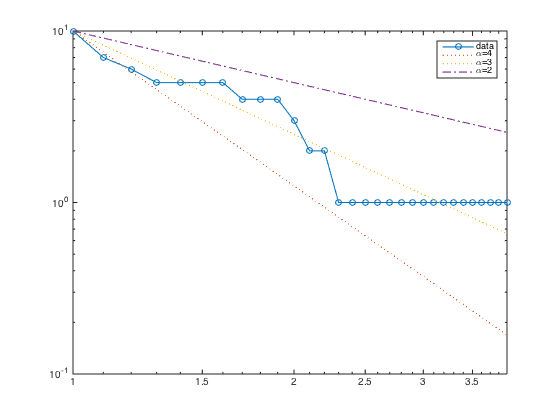
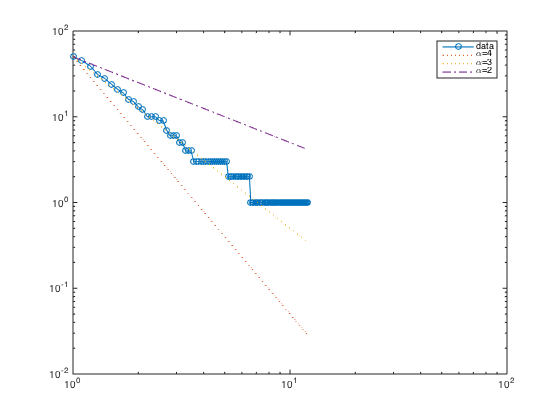
update

diff --git a/hierarchical_nets/html/sparse_nets.html b/hierarchical_nets/html/sparse_nets.html
@@ -6,7 +6,7 @@
    <!--
 This HTML was auto-generated from MATLAB code.
 To make changes, update the MATLAB code and republish this document.
-      --><title>sparse_nets</title><meta name="generator" content="MATLAB 8.4"><link rel="schema.DC" href="http://purl.org/dc/elements/1.1/"><meta name="DC.date" content="2015-09-02"><meta name="DC.source" content="sparse_nets.m"><style type="text/css">
+      --><title>sparse_nets</title><meta name="generator" content="MATLAB 8.4"><link rel="schema.DC" href="http://purl.org/dc/elements/1.1/"><meta name="DC.date" content="2015-09-03"><meta name="DC.source" content="sparse_nets.m"><style type="text/css">
 html,body,div,span,applet,object,iframe,h1,h2,h3,h4,h5,h6,p,blockquote,pre,a,abbr,acronym,address,big,cite,code,del,dfn,em,font,img,ins,kbd,q,s,samp,small,strike,strong,sub,sup,tt,var,b,u,i,center,dl,dt,dd,ol,ul,li,fieldset,form,label,legend,table,caption,tbody,tfoot,thead,tr,th,td{margin:0;padding:0;border:0;outline:0;font-size:100%;vertical-align:baseline;background:transparent}body{line-height:1}ol,ul{list-style:none}blockquote,q{quotes:none}blockquote:before,blockquote:after,q:before,q:after{content:'';content:none}:focus{outine:0}ins{text-decoration:none}del{text-decoration:line-through}table{border-collapse:collapse;border-spacing:0}
 
 html { min-height:100%; margin-bottom:1px; }
@@ -70,7 +70,7 @@ table td { padding:7px 5px; text-align:left; vertical-align:top; border:1px soli
 clear <span class="string">all</span>
 clc
 
-n = 10; <span class="comment">% umber of nodes</span>
+n = 50; <span class="comment">% umber of nodes</span>
 </pre><h2>Generating a full hierarchy<a name="2"></a></h2><p>Define the Hierarchy relations by using a binary n x n matrix the element [i,j] of H is 1 if i is superior to j.</p><pre class="codeinput">H = tril(ones(n,n),-1); <span class="comment">% ASONAM model</span>
 H(1,1) = 1;
 W = genericModel(H);
@@ -89,10 +89,9 @@ hold <span class="string">on</span>
 loglog(ccdf_x, n * ccdf_x.^(-2),<span class="string">':'</span>)  <span class="comment">% approximation of power law</span>
 loglog(ccdf_x, n * ccdf_x.^(-1),<span class="string">'-.'</span>)  <span class="comment">% approximation of power law</span>
 legend(<span class="string">'data'</span>,<span class="string">'\alpha=2'</span>,<span class="string">'\alpha=3'</span>)
-</pre><img vspace="5" hspace="5" src="sparse_nets_01.png" alt=""> <h2>Generating a full hierarchy<a name="3"></a></h2><p>Define the Hierarchy relations by using a binary n x n matrix the element [i,j] of H is 1 if i is superior to j.</p><pre class="codeinput"><span class="keyword">for</span> kk = 1 : 20
-    H = tril(rand(n,n)&gt;kk/20,-1); <span class="comment">% ASONAM model</span>
-    20/kk
-    <span class="keyword">for</span> i = 1 : n
+</pre><img vspace="5" hspace="5" src="sparse_nets_01.png" alt=""> <h2>Generating a full hierarchy<a name="3"></a></h2><p>Define the Hierarchy relations by using a binary n x n matrix the element [i,j] of H is 1 if i is superior to j.</p><pre class="codeinput"><span class="keyword">for</span> kk = 1 : 19*3
+</pre><pre class="codeinput">    H = tril(rand(n,n)&gt;kk/20/3,-1); <span class="comment">% ASONAM model</span>
+</pre><div><ul><li>ITEM1</li><li>ITEM2</li></ul></div><pre class="codeinput">    <span class="keyword">for</span> i = 1 : n
         <span class="keyword">if</span> sum(H(i,:)) == 0
             H(i,i) = 1;
         <span class="keyword">end</span>
@@ -114,108 +113,8 @@ legend(<span class="string">'data'</span>,<span class="string">'\alpha=2'</span>
     loglog(ccdf_x, n * ccdf_x.^(-2),<span class="string">':'</span>)  <span class="comment">% approximation of power law</span>
     loglog(ccdf_x, n * ccdf_x.^(-1),<span class="string">'-.'</span>)  <span class="comment">% approximation of power law</span>
     legend(<span class="string">'data'</span>,<span class="string">'\alpha=4'</span>,<span class="string">'\alpha=3'</span>,<span class="string">'\alpha=2'</span>)
-<span class="keyword">end</span>
-</pre><pre class="codeoutput">
-ans =
-
-    20
-
-
-ans =
-
-    10
-
-
-ans =
-
-    6.6667
-
-
-ans =
-
-     5
-
-
-ans =
-
-     4
-
-
-ans =
-
-    3.3333
-
-
-ans =
-
-    2.8571
-
-
-ans =
-
-    2.5000
-
-
-ans =
-
-    2.2222
-
-
-ans =
-
-     2
-
-
-ans =
-
-    1.8182
-
-
-ans =
-
-    1.6667
-
-
-ans =
-
-    1.5385
-
-
-ans =
-
-    1.4286
-
-
-ans =
-
-    1.3333
-
-
-ans =
-
-    1.2500
-
-
-ans =
-
-    1.1765
-
-
-ans =
-
-    1.1111
-
-
-ans =
-
-    1.0526
-
-
-ans =
-
-     1
-
-</pre><img vspace="5" hspace="5" src="sparse_nets_02.png" alt=""> <img vspace="5" hspace="5" src="sparse_nets_03.png" alt=""> <img vspace="5" hspace="5" src="sparse_nets_04.png" alt=""> <img vspace="5" hspace="5" src="sparse_nets_05.png" alt=""> <img vspace="5" hspace="5" src="sparse_nets_06.png" alt=""> <img vspace="5" hspace="5" src="sparse_nets_07.png" alt=""> <img vspace="5" hspace="5" src="sparse_nets_08.png" alt=""> <img vspace="5" hspace="5" src="sparse_nets_09.png" alt=""> <img vspace="5" hspace="5" src="sparse_nets_10.png" alt=""> <img vspace="5" hspace="5" src="sparse_nets_11.png" alt=""> <img vspace="5" hspace="5" src="sparse_nets_12.png" alt=""> <img vspace="5" hspace="5" src="sparse_nets_13.png" alt=""> <img vspace="5" hspace="5" src="sparse_nets_14.png" alt=""> <img vspace="5" hspace="5" src="sparse_nets_15.png" alt=""> <img vspace="5" hspace="5" src="sparse_nets_16.png" alt=""> <img vspace="5" hspace="5" src="sparse_nets_17.png" alt=""> <img vspace="5" hspace="5" src="sparse_nets_18.png" alt=""> <img vspace="5" hspace="5" src="sparse_nets_19.png" alt=""> <img vspace="5" hspace="5" src="sparse_nets_20.png" alt=""> <img vspace="5" hspace="5" src="sparse_nets_21.png" alt=""> <p class="footer"><br><a href="http://www.mathworks.com/products/matlab/">Published with MATLAB&reg; R2014b</a><br></p></div><!--
+</pre><img vspace="5" hspace="5" src="sparse_nets_02.png" alt=""> <img vspace="5" hspace="5" src="sparse_nets_03.png" alt=""> <img vspace="5" hspace="5" src="sparse_nets_04.png" alt=""> <img vspace="5" hspace="5" src="sparse_nets_05.png" alt=""> <img vspace="5" hspace="5" src="sparse_nets_06.png" alt=""> <img vspace="5" hspace="5" src="sparse_nets_07.png" alt=""> <img vspace="5" hspace="5" src="sparse_nets_08.png" alt=""> <img vspace="5" hspace="5" src="sparse_nets_09.png" alt=""> <img vspace="5" hspace="5" src="sparse_nets_10.png" alt=""> <img vspace="5" hspace="5" src="sparse_nets_11.png" alt=""> <img vspace="5" hspace="5" src="sparse_nets_12.png" alt=""> <img vspace="5" hspace="5" src="sparse_nets_13.png" alt=""> <img vspace="5" hspace="5" src="sparse_nets_14.png" alt=""> <img vspace="5" hspace="5" src="sparse_nets_15.png" alt=""> <img vspace="5" hspace="5" src="sparse_nets_16.png" alt=""> <img vspace="5" hspace="5" src="sparse_nets_17.png" alt=""> <img vspace="5" hspace="5" src="sparse_nets_18.png" alt=""> <img vspace="5" hspace="5" src="sparse_nets_19.png" alt=""> <img vspace="5" hspace="5" src="sparse_nets_20.png" alt=""> <img vspace="5" hspace="5" src="sparse_nets_21.png" alt=""> <img vspace="5" hspace="5" src="sparse_nets_22.png" alt=""> <img vspace="5" hspace="5" src="sparse_nets_23.png" alt=""> <img vspace="5" hspace="5" src="sparse_nets_24.png" alt=""> <img vspace="5" hspace="5" src="sparse_nets_25.png" alt=""> <img vspace="5" hspace="5" src="sparse_nets_26.png" alt=""> <img vspace="5" hspace="5" src="sparse_nets_27.png" alt=""> <img vspace="5" hspace="5" src="sparse_nets_28.png" alt=""> <img vspace="5" hspace="5" src="sparse_nets_29.png" alt=""> <img vspace="5" hspace="5" src="sparse_nets_30.png" alt=""> <img vspace="5" hspace="5" src="sparse_nets_31.png" alt=""> <img vspace="5" hspace="5" src="sparse_nets_32.png" alt=""> <img vspace="5" hspace="5" src="sparse_nets_33.png" alt=""> <img vspace="5" hspace="5" src="sparse_nets_34.png" alt=""> <img vspace="5" hspace="5" src="sparse_nets_35.png" alt=""> <img vspace="5" hspace="5" src="sparse_nets_36.png" alt=""> <img vspace="5" hspace="5" src="sparse_nets_37.png" alt=""> <img vspace="5" hspace="5" src="sparse_nets_38.png" alt=""> <img vspace="5" hspace="5" src="sparse_nets_39.png" alt=""> <img vspace="5" hspace="5" src="sparse_nets_40.png" alt=""> <img vspace="5" hspace="5" src="sparse_nets_41.png" alt=""> <img vspace="5" hspace="5" src="sparse_nets_42.png" alt=""> <img vspace="5" hspace="5" src="sparse_nets_43.png" alt=""> <img vspace="5" hspace="5" src="sparse_nets_44.png" alt=""> <img vspace="5" hspace="5" src="sparse_nets_45.png" alt=""> <img vspace="5" hspace="5" src="sparse_nets_46.png" alt=""> <img vspace="5" hspace="5" src="sparse_nets_47.png" alt=""> <img vspace="5" hspace="5" src="sparse_nets_48.png" alt=""> <img vspace="5" hspace="5" src="sparse_nets_49.png" alt=""> <img vspace="5" hspace="5" src="sparse_nets_50.png" alt=""> <img vspace="5" hspace="5" src="sparse_nets_51.png" alt=""> <img vspace="5" hspace="5" src="sparse_nets_52.png" alt=""> <img vspace="5" hspace="5" src="sparse_nets_53.png" alt=""> <img vspace="5" hspace="5" src="sparse_nets_54.png" alt=""> <img vspace="5" hspace="5" src="sparse_nets_55.png" alt=""> <img vspace="5" hspace="5" src="sparse_nets_56.png" alt=""> <img vspace="5" hspace="5" src="sparse_nets_57.png" alt=""> <img vspace="5" hspace="5" src="sparse_nets_58.png" alt=""> <pre class="codeinput"><span class="keyword">end</span>
+</pre><p class="footer"><br><a href="http://www.mathworks.com/products/matlab/">Published with MATLAB&reg; R2014b</a><br></p></div><!--
 ##### SOURCE BEGIN #####
 %% STUDY SPARSE HIERARCHIES
 % Bijan Ranjbar-Sahraei
@@ -229,7 +128,7 @@ close all
 clear all
 clc
 
-n = 10; % umber of nodes
+n = 50; % umber of nodes
 
 %% Generating a full hierarchy
 % Define the Hierarchy relations by using a binary n x n matrix
@@ -258,9 +157,13 @@ legend('data','\alpha=2','\alpha=3')
 % Define the Hierarchy relations by using a binary n x n matrix
 % the element [i,j] of H is 1 if i is superior to j.
 
-for kk = 1 : 20
-    H = tril(rand(n,n)>kk/20,-1); % ASONAM model
-    20/kk
+for kk = 1 : 19*3
+    H = tril(rand(n,n)>kk/20/3,-1); % ASONAM model
+    %%
+    % 
+    % * ITEM1
+    % * ITEM2
+    % 
     for i = 1 : n
         if sum(H(i,:)) == 0
             H(i,i) = 1;

diff --git a/hierarchical_nets/sparse_nets.m b/hierarchical_nets/sparse_nets.m
@@ -10,7 +10,7 @@ close all
 clear all
 clc
 
-n = 10; % umber of nodes
+n = 50; % umber of nodes
 
 %% Generating a full hierarchy
 % Define the Hierarchy relations by using a binary n x n matrix
@@ -39,14 +39,13 @@ legend('data','\alpha=2','\alpha=3')
 % Define the Hierarchy relations by using a binary n x n matrix
 % the element [i,j] of H is 1 if i is superior to j.
 
-for kk = 1 : 20
-    H = tril(rand(n,n)>kk/20,-1); % ASONAM model
+for kk = 1 : 19*3
+    H = tril(rand(n,n)>kk/20/3,-1); % ASONAM model
     %%
     % 
     % * ITEM1
     % * ITEM2
     % 
-    20/kk
     for i = 1 : n
         if sum(H(i,:)) == 0
             H(i,i) = 1;

diff --git a/bottlenecks-are-good/konect-data/extract_layers.m b/bottlenecks-are-good/konect-data/extract_layers.m
@@ -59,7 +59,11 @@ plot(L')
 
 %% get the node size
 
+<<<<<<< Updated upstream
 node_size = zeros(1,n);
+=======
+node_size = zeros(n,1);
+>>>>>>> Stashed changes
 for i = 1 : n
 %     b = polyfit(1:diam,L(i,:),1);
     node_size(i) = 0;
